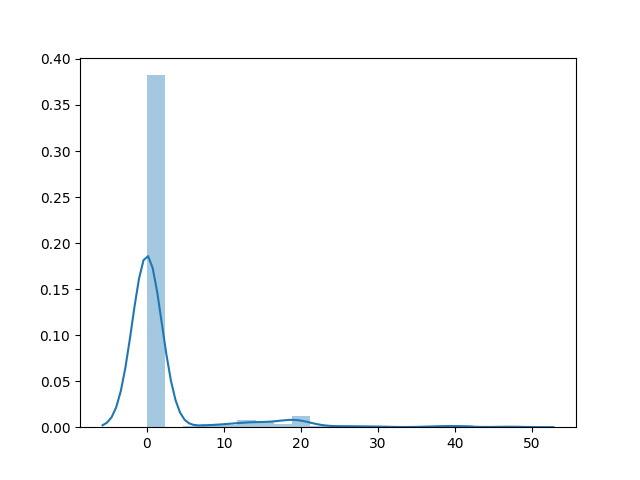
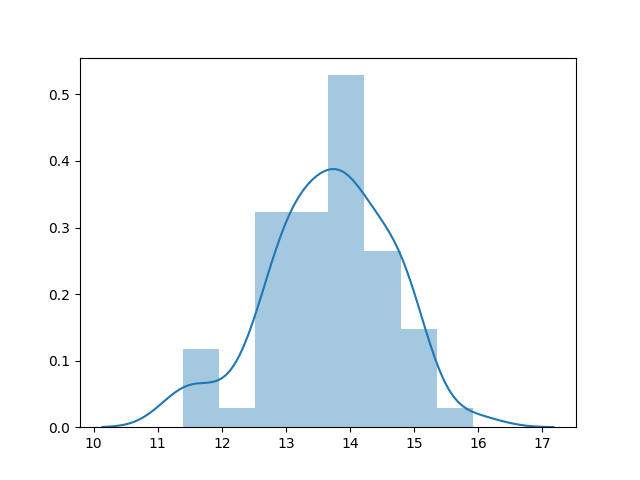
Tiempo de espera calculado correctamente, reportes funcionando maso menos parece

diff --git a/TP7/EstacionDeServicio/Simulacion.py b/TP7/EstacionDeServicio/Simulacion.py
@@ -22,7 +22,7 @@ def llegada_camiones():
 def generar_eventos_llegada():
     eventos = []
     for i in llegada_camiones():
-        evento = Evento(LLEGADA_CAMION, i, None, None)
+        evento = Evento(LLEGADA_CAMION, int(i), None, None)
         eventos.append(evento)
     return eventos
 
@@ -61,9 +61,8 @@ def tomar_proximo_evento(fel, evento):
     else:
         return None
 
-def procesar_evento(evento, reloj_simulacion, estacion, fel):
+def procesar_evento(evento, reloj_simulacion, estacion, fel, tiempos_promedio_corrida):
     avanzar=0
-    tiempo_espera_camion=0
     
     if evento.tipo == LLEGADA_CAMION :
         #si es un evento reprocesado
@@ -76,6 +75,7 @@ def procesar_evento(evento, reloj_simulacion, estacion, fel):
         surtidores_libres = estacion.verificar_surtidores_libres()
         
         if len(surtidores_libres):
+
             surtidor = surtidores_libres[0] 
             tiempo_atencion_surtidor = surtidor.tiempo_atencion()
             evento.asignar_surtidor(surtidor)
@@ -83,6 +83,13 @@ def procesar_evento(evento, reloj_simulacion, estacion, fel):
             remover_evento_fel(fel, evento)
             avanzar=0
             generar_evento_fin_atencion(fel, reloj_simulacion.valor + tiempo_atencion_surtidor, surtidor, camion)
+            #tomo el tiempo del evento de salida
+            if (reloj_simulacion.get_valor_acumulado() > reloj_simulacion.valor):
+                tiempo_espera_camion = reloj_simulacion.get_valor_acumulado() - evento.get_camion().get_tiempo_llegada()
+            else:
+                tiempo_espera_camion = 0
+            evento.get_camion().set_tiempo_espera(tiempo_espera_camion)
+            tiempos_promedio_corrida.append(tiempo_espera_camion)
         else:
             #reiniciamos la fel
             avanzar=1
@@ -92,17 +99,14 @@ def procesar_evento(evento, reloj_simulacion, estacion, fel):
         surtidor = evento.get_surtidor()
         surtidor.set_disponible(True)        
         remover_evento_fel(fel, evento)
-        tiempo_espera_camion = reloj_simulacion.valor - evento.get_camion().get_tiempo_llegada()
-        tiempo_espera_camion = evento.get_camion().set_tiempo_espera(tiempo_espera_camion)
-        tiempo_espera_camion = evento.get_camion().get_tiempo_espera()
-    
-    return avanzar, tiempo_espera_camion 
+        reloj_simulacion.acumular(reloj_simulacion.valor)   
+    return avanzar
 
 #constantes
-MAX_EXPERIMENTOS=1
-MAX_CORRIDAS=1
+MAX_EXPERIMENTOS=60
+MAX_CORRIDAS=100
 
-CANTIDAD_HORAS_LABORABLES=10
+CANTIDAD_HORAS_LABORABLES=24
 CANTIDAD_MINUTOS_LABORABLES = (CANTIDAD_HORAS_LABORABLES*60) #24 hs * 60 minutos laborables
 CANTIDAD_SURTIDORES=4
 
@@ -129,13 +133,13 @@ for experimento in range(MAX_EXPERIMENTOS):
         while len(FEL)>0:
             evento_actual = FEL[indice_fel]
             cantidad_eventos = len(FEL)
+            #print(len(FEL))
 
             #avanzo el reloj al tiempo del evento actual
             reloj_simulacion.avanzar(evento_actual.inicio)
         
             #procesar el evento actual
-            avanzar, tiempo_espera_camion = procesar_evento(evento_actual, reloj_simulacion, estacion_de_servicio, FEL)
-            tiempos_promedio_corrida.append(tiempo_espera_camion)
+            avanzar = procesar_evento(evento_actual, reloj_simulacion, estacion_de_servicio, FEL, tiempos_promedio_corrida)
 
             if avanzar==0:
                 indice_fel=0
@@ -147,10 +151,9 @@ for experimento in range(MAX_EXPERIMENTOS):
                     indice_fel = 0 
                 else:
                     break 
-
+                    
     promedio_corrida = np.mean(tiempos_promedio_corrida)
     tiempo_promedio_espera_total.append(promedio_corrida)
-
 
 tiempo_promedio_total = np.mean(tiempo_promedio_espera_total)
 
@@ -162,9 +165,9 @@ coficienteZ = 2.575
 
 extremoInferior, extremoSuperior = calcular_intervalo_confianza(coficienteZ, media, error)
 
-print(f"El tiempo promedio de finalizacion del proyecto es de {media}")
+print(f"El tiempo promedio de espera de los camiones es de {media}")
 print(f"El intervalo de confianza va de {extremoInferior} a {extremoSuperior}] con el 99% de confiabilidad")
 
-sns_plot = sns.distplot(tiempos_promedio_corrida)
+sns_plot = sns.distplot(tiempo_promedio_espera_total)
 fig = sns_plot.get_figure()
-fig.savefig("Exponencial.png")
+fig.savefig("Exponencial.png") 

diff --git a/TP7/EstacionDeServicio/Reloj.py b/TP7/EstacionDeServicio/Reloj.py
@@ -4,13 +4,13 @@ class Reloj:
     """
     def __init__(self):
         self.valor = 0 #en minutos
-        self.valor_acumulado = 0.0
+        self.valor_acumulado = 0
 
     def avanzar(self, nuevo_valor):
         self.valor = nuevo_valor
     
     def acumular(self, valor):
-        self.valor_acumulado+=valor
+        self.valor_acumulado=valor
 
     def get_valor_acumulado(self):
         return self.valor_acumulado
